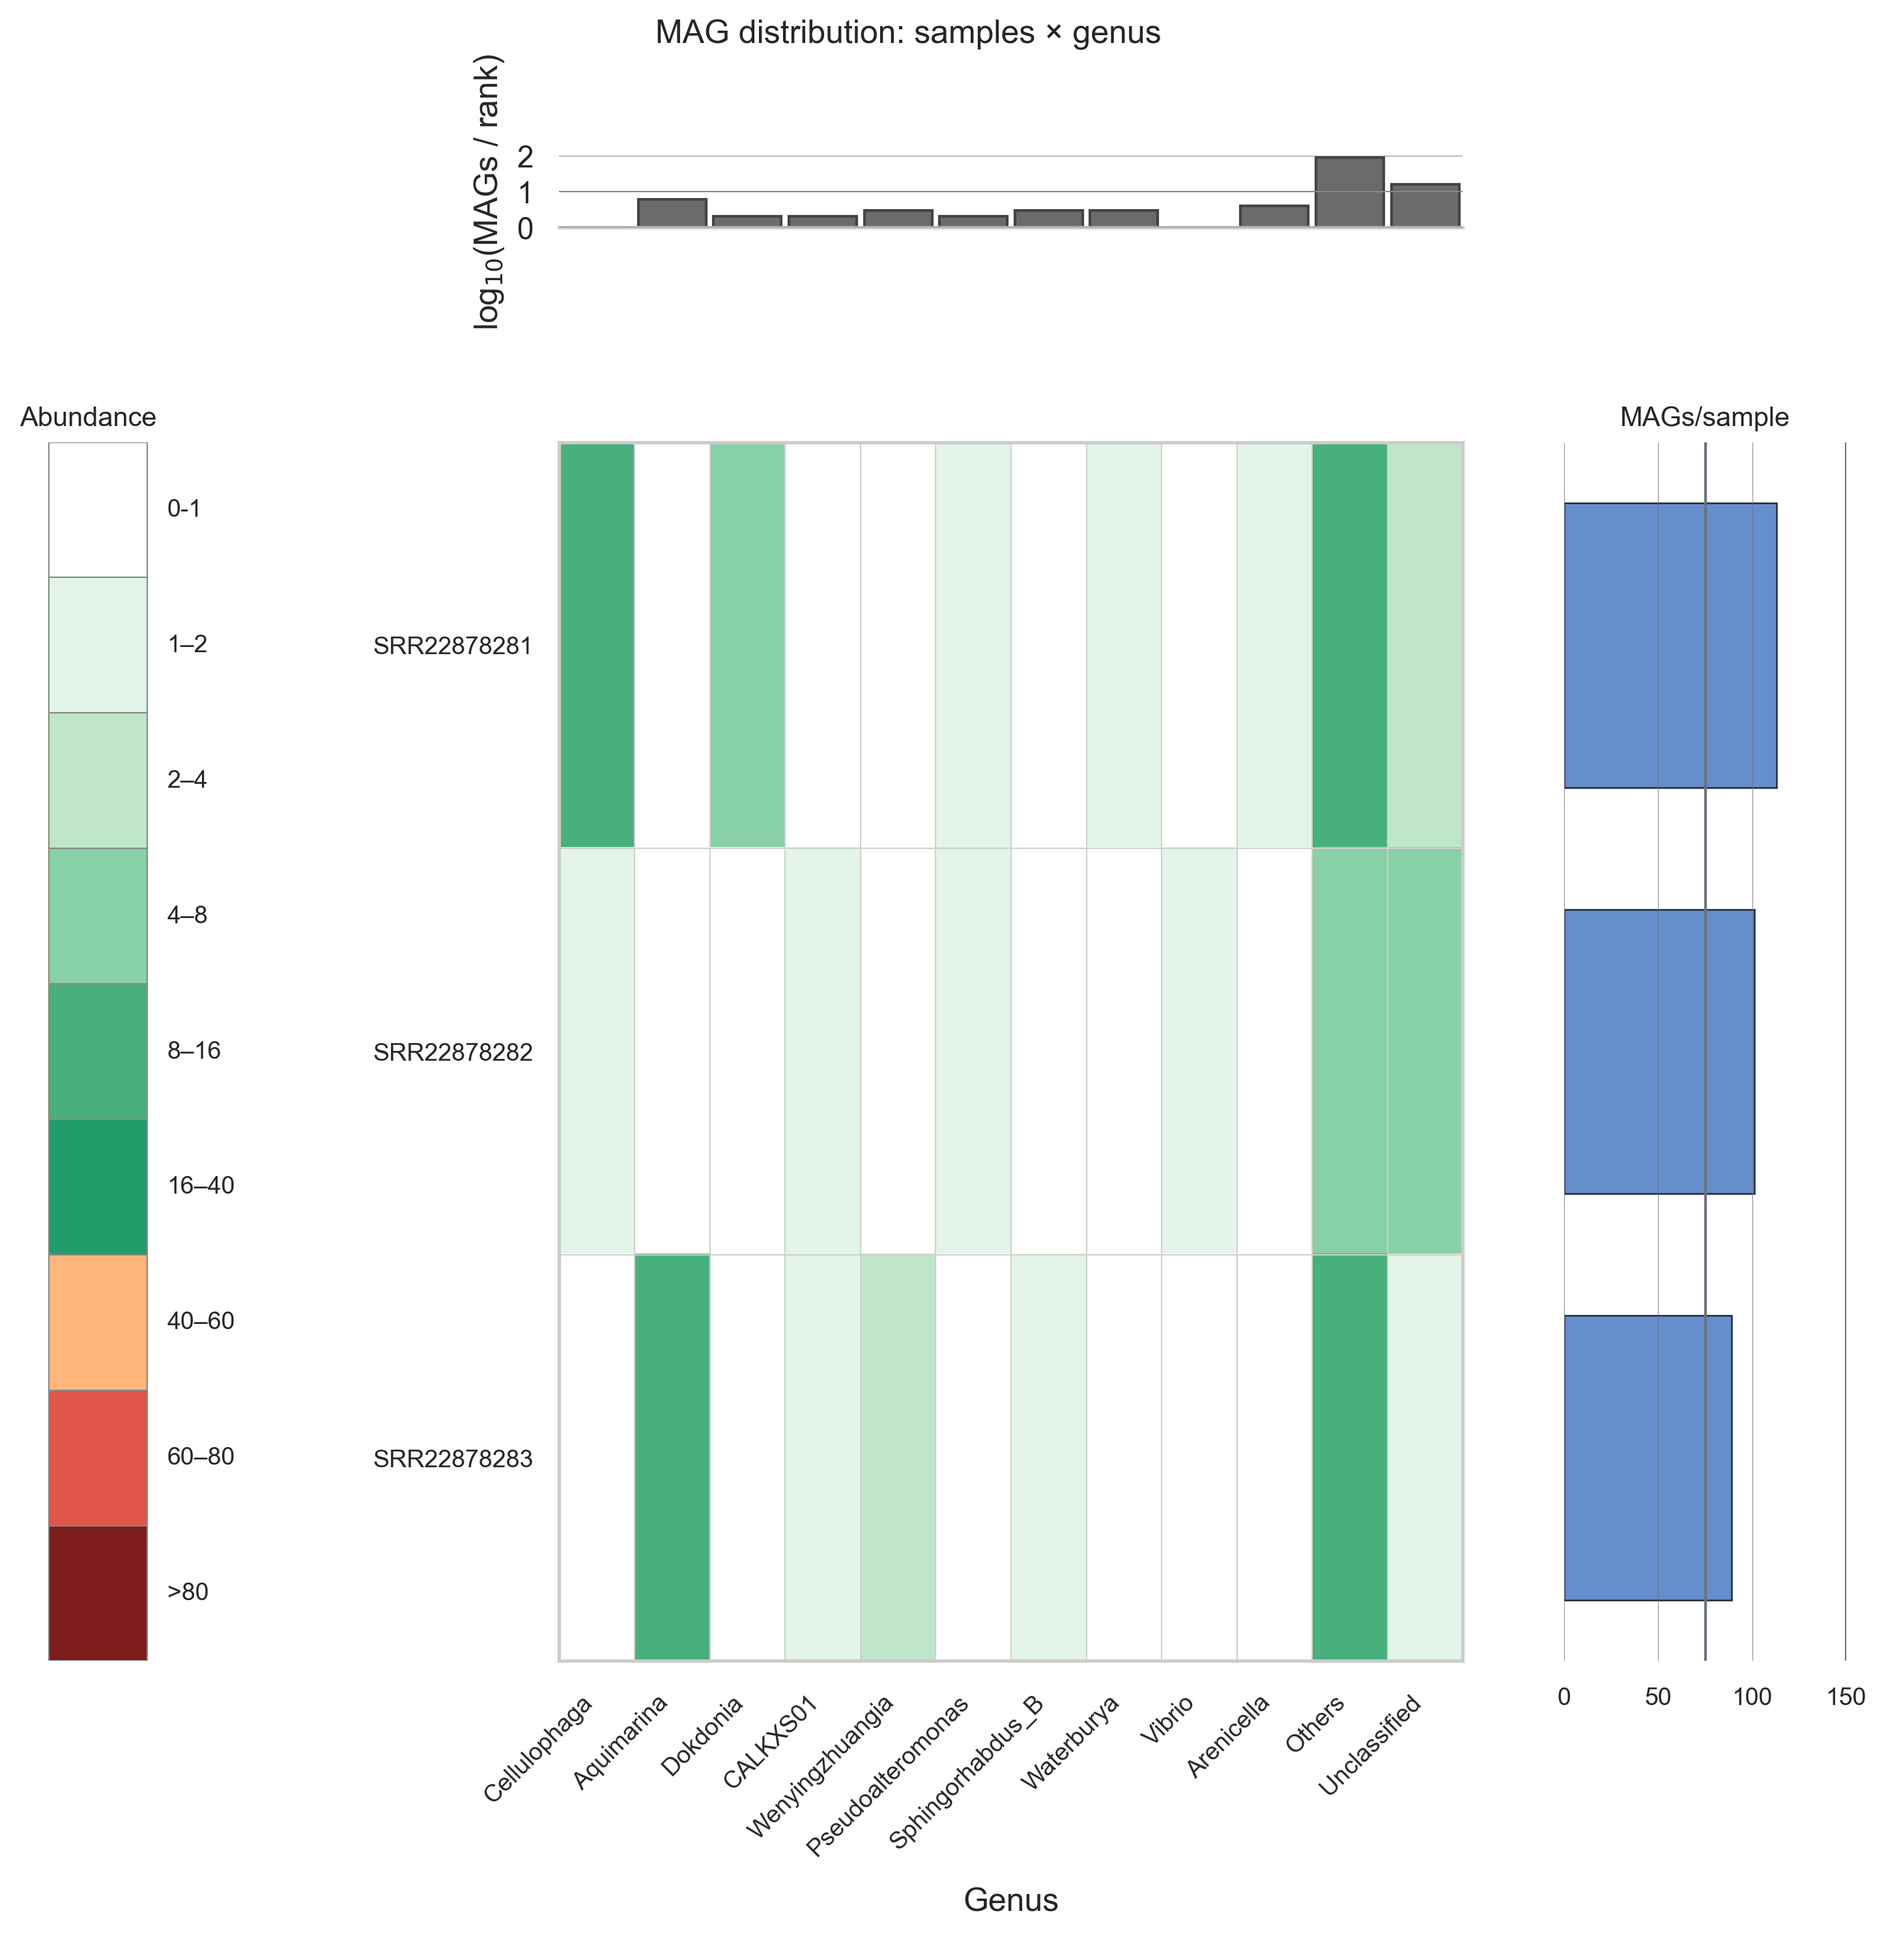
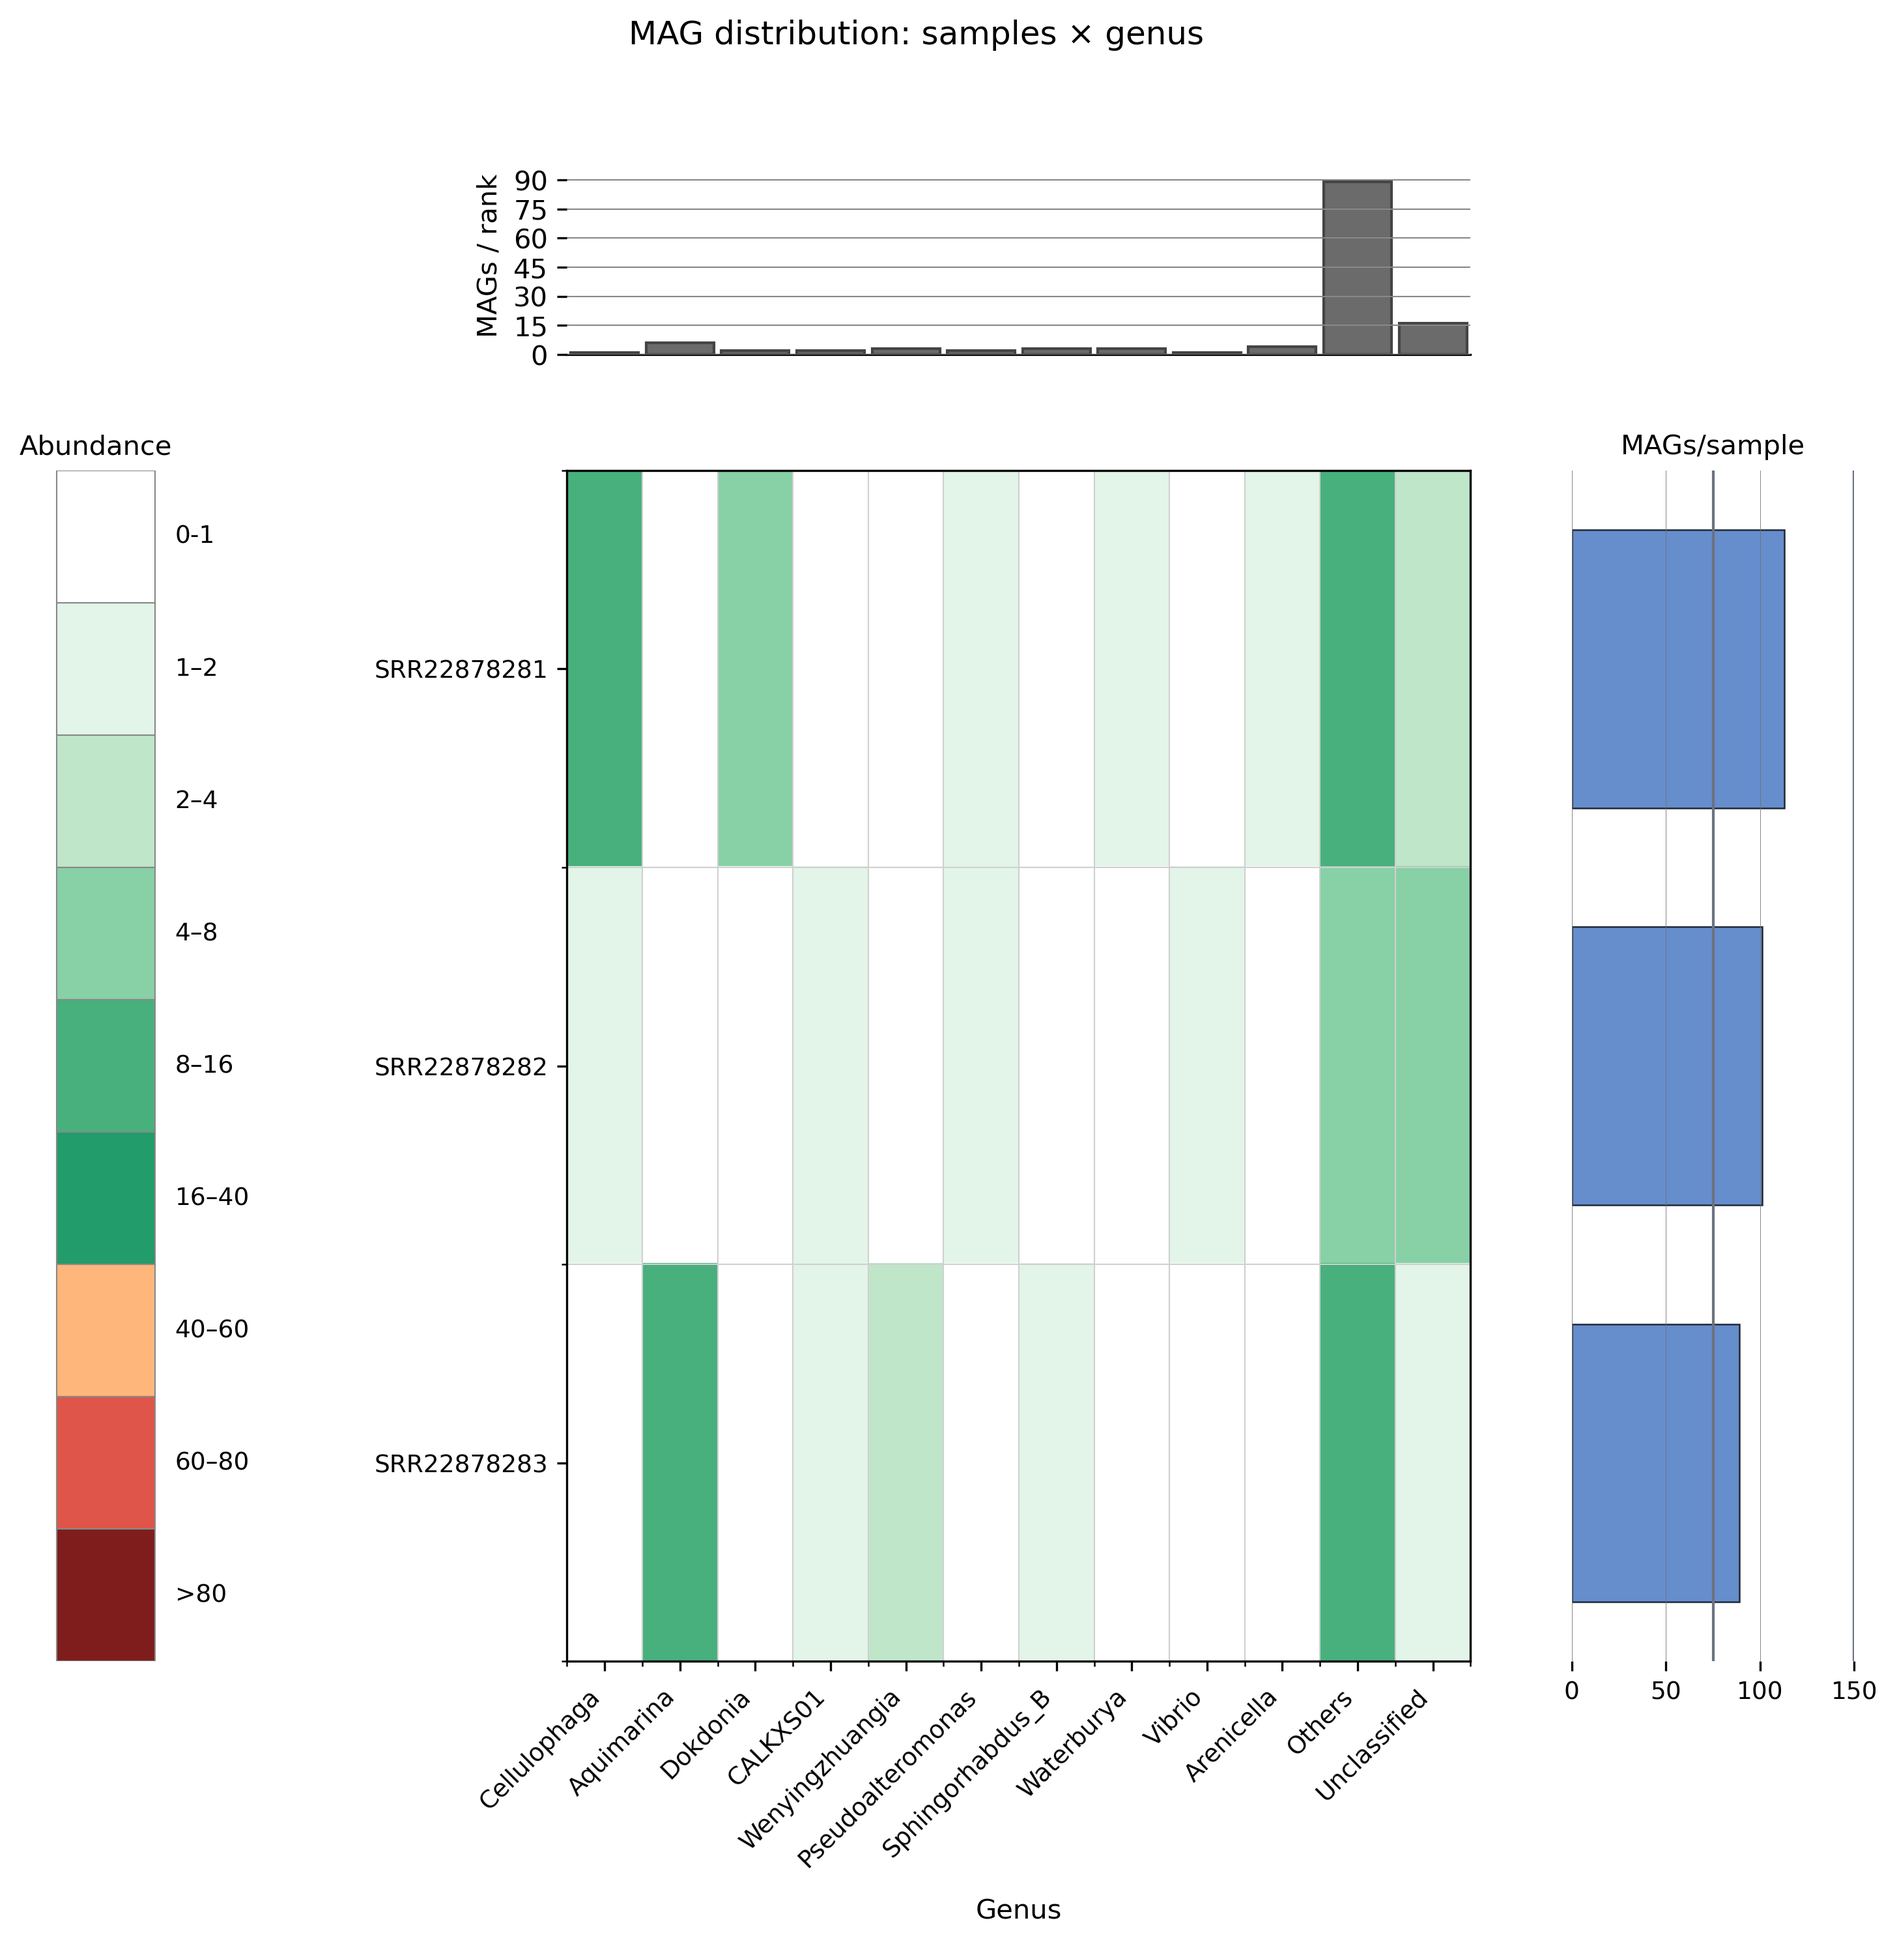
update marine use case

diff --git a/use-cases/README.md b/use-cases/README.md
@@ -102,20 +102,31 @@ mags-visualization taxa-sankey \
   --output out
 ```
 
-## Marine
+## Macroalgal microbiome
 
 ```bash
-use_case_folder="marine-use-case/data"
+use_case_folder="marine-use-case"
 ```
 
 ### Sample heatmap
 
 ```bash
 mags-visualization sample-heatmap \
-  --coverm "$use_case_folder/coverm.tsv" \
-  --gtdb "$use_case_folder/gtdb.tsv" \
-  --tax_level genus \
-  --output out
+  --coverm "$use_case_folder/data/coverm.tsv" \
+  --gtdb "$use_case_folder/data/gtdb.tsv" \
+  --tax_level family \
+  --no_log \
+  --top_bar_height 2.0 \
+  --top_bar_spacer -1 \
+  --output "$use_case_folder/plots"
+```
+
+```bash
+mags-visualization sample-heatmap \
+  --coverm "$use_case_folder/data/coverm.tsv" \
+  --gtdb "$use_case_folder/data/gtdb.tsv" \
+  --tax_level species \
+  --output "$use_case_folder/plots"
 ```
 
 ### dRep cluster plot
@@ -287,6 +298,20 @@ mags-visualization sample-heatmap \
   --output "$use_case_folder/plots"
 ```
 
+```bash
+mags-visualization sample-heatmap \
+  --coverm "$use_case_folder/data/coverm.tsv" \
+  --gtdb "$use_case_folder/data/gtdb.tsv" \
+  --metadata "$use_case_folder/data/metadata.tsv" \
+  --meta_cols "Species" "Casts" "Colony" \
+  --tax_level family \
+  --no_log \
+  --spacer_meta 4.5 \
+  --top_bar_height 1.5 \
+  --hspace 0.08 \
+  --output "$use_case_folder/plots"
+```
+
 ### dRep cluster plot
 
 ```bash
@@ -335,7 +360,7 @@ mags-visualization taxa-sankey \
 If you want to use powershell instead of bash, it's just a different syntax.
 In the following examples the **subcommand** "all" is used, which produces all plots.
 
-## Marine
+## Macroalgal microbiome
 
 ```powershell
 $use_case_folder = "marine-use-case\data"
